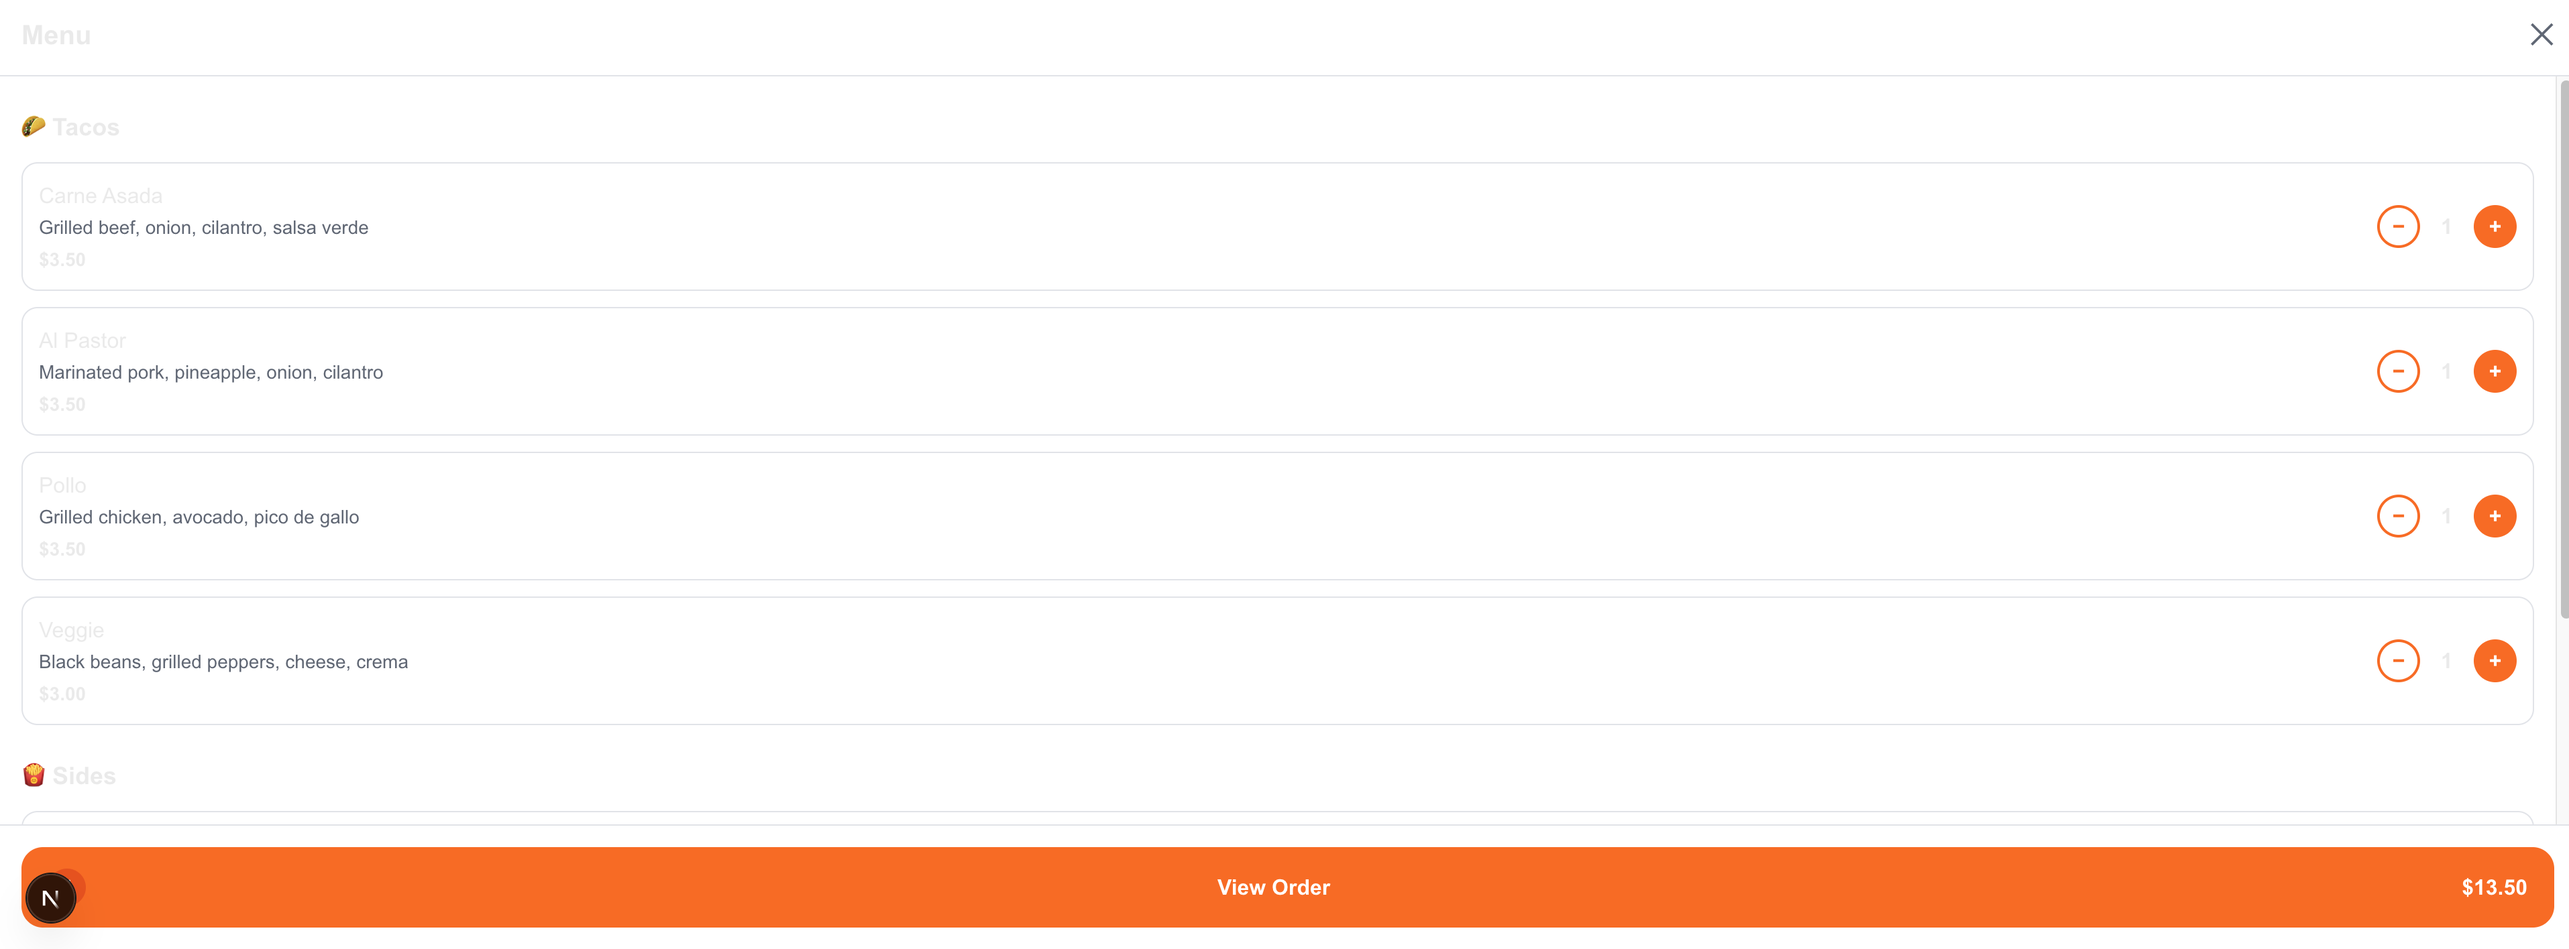
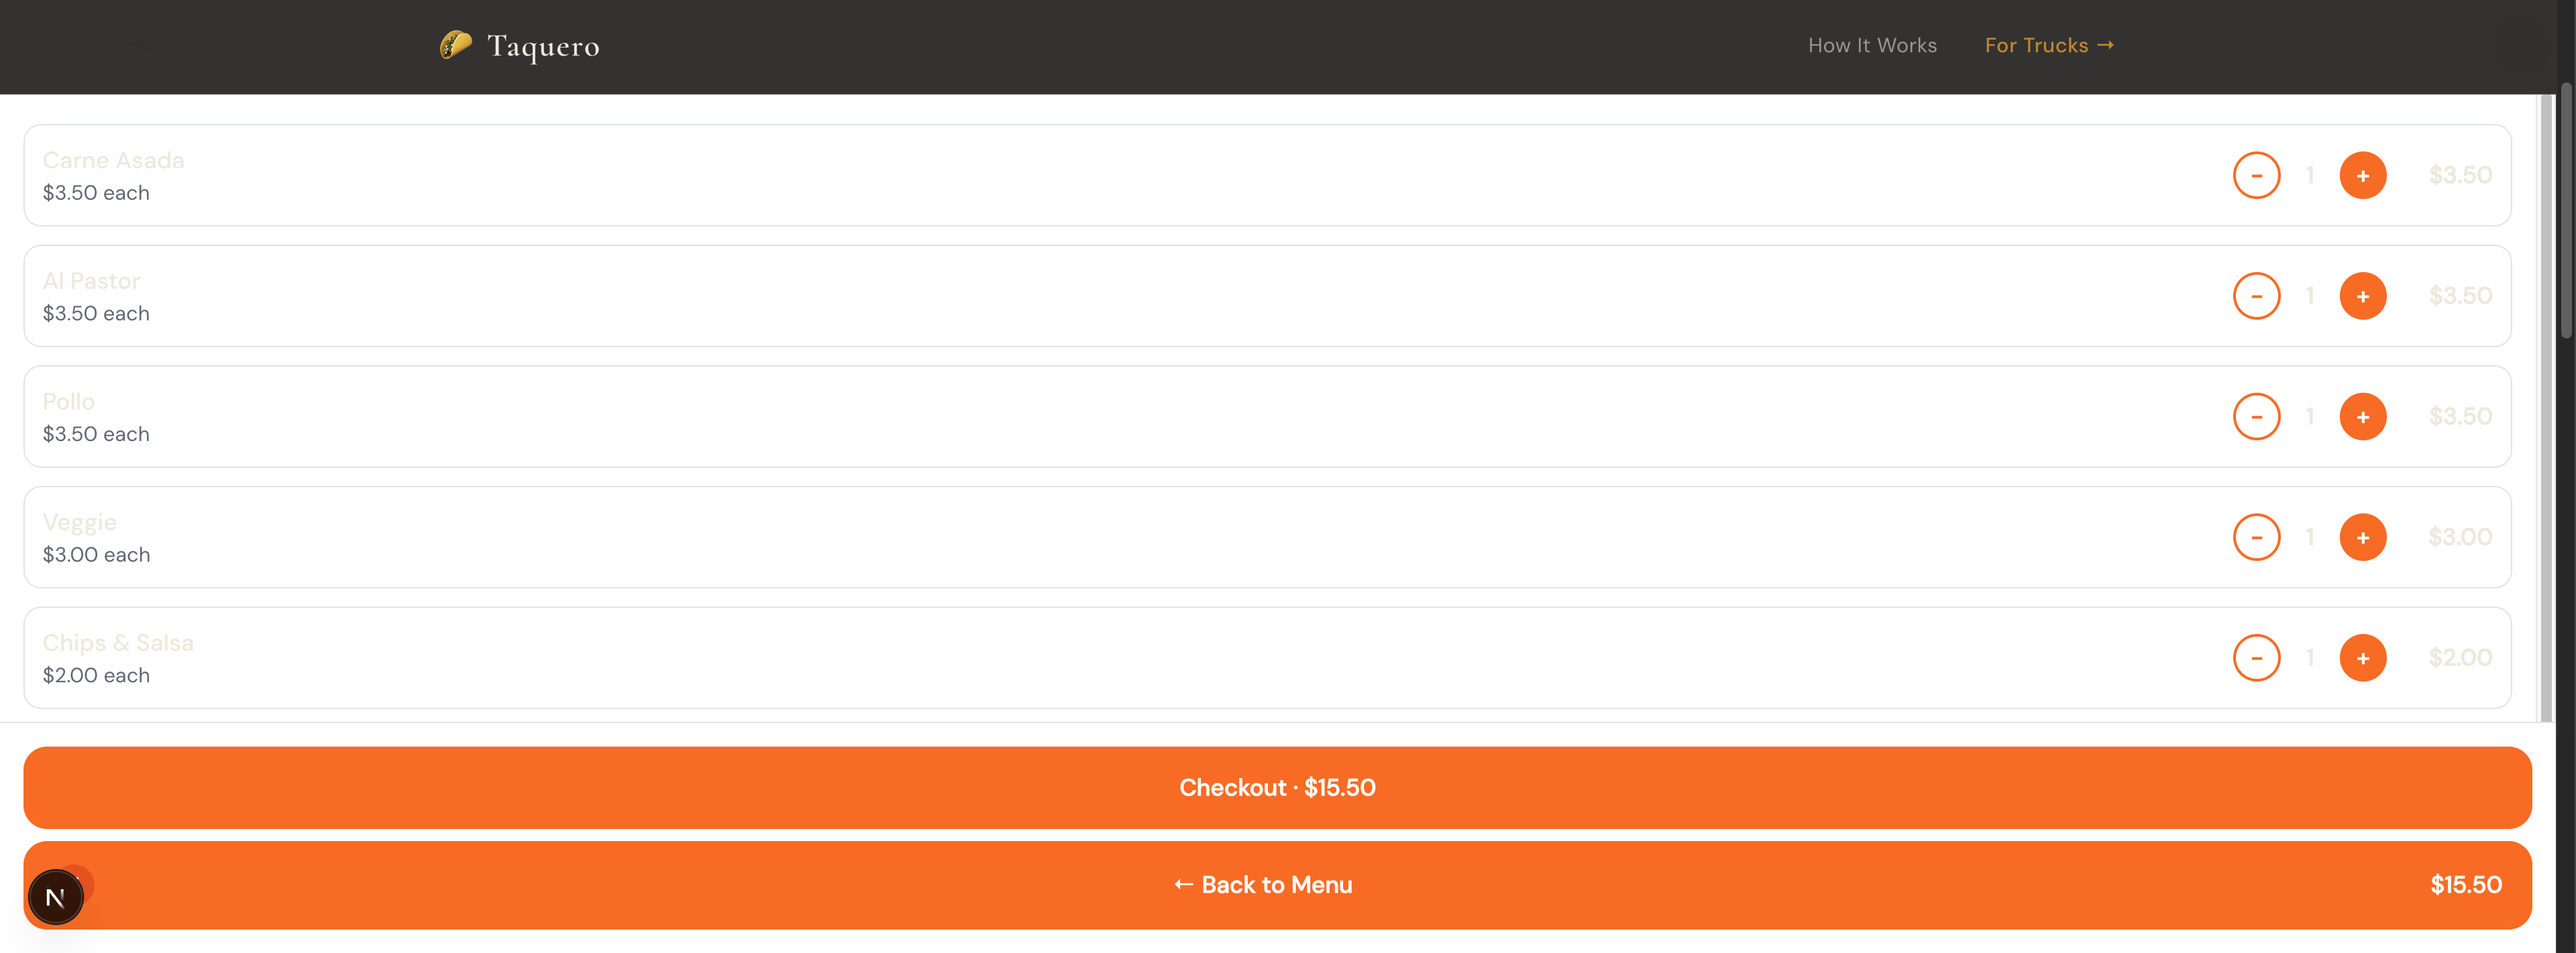
Updated Documentation 🔄

diff --git a/README.md b/README.md
@@ -1,18 +1,23 @@
 # 🌮 Taquero
-
 **Taquero** is a real-time GPS tracking and ordering platform for taco trucks. Customers can find nearby trucks on a live map, browse the menu, build a cart, and check out — all in one flow.
-
 Built for the Lynnwood, WA Highway 99 market.
 
 ---
 
 ## Screenshots
 
-### Live Map — Find the Truck
+### Landing Page
 ![Landing Page](docs/screenshots/Landing_Page.png)
 
-### Tap the Pin — Truck Info & Order Now
-![Pressed Taco](docs/screenshots/Pressed_Taco.png)
+### Live Map — Find the Truck
+Detects the user's location and auto-fits the map to frame both the customer and nearby trucks. Tap any pin to see the truck's distance and get directions.
+
+![Truck Info](docs/screenshots/Truck.png)
+
+### Get Directions
+Opens Apple Maps on iOS, Google Maps everywhere else.
+
+![Google Maps Directions](docs/screenshots/Google_Maps_Directions.png)
 
 ### Browse the Menu
 ![Menu](docs/screenshots/Menu.png)
@@ -20,11 +25,17 @@ Built for the Lynnwood, WA Highway 99 market.
 ### Add Items to Your Order
 ![Added Items](docs/screenshots/Added_Items.png)
 
-### Review Your Order
-![View Items](docs/screenshots/View_Items.png)
-
 ### Checkout via Square
-![Checkout](docs/screenshots/SquareSpace_CheckOut.png)
+![Square Checkout](docs/screenshots/Square_Pay_Checkout.png)
+
+### Order Confirmation
+![Order Confirmation](docs/screenshots/Redirect.png)
+
+### How It Works
+![How It Works](docs/screenshots/How_It_Works.png)
+
+### For Operators
+![Early Access](docs/screenshots/Early_Access.png)
 
 ---
 
@@ -35,18 +46,18 @@ Built for the Lynnwood, WA Highway 99 market.
 |---|---|
 | [Next.js 14](https://nextjs.org) | React framework, routing, SSR |
 | TypeScript | Type safety across the app |
-| [@vis.gl/react-google-maps](https://visgl.github.io/react-google-maps/) | Interactive map with custom markers and InfoWindows |
+| [@vis.gl/react-google-maps](https://visgl.github.io/react-google-maps/) | Interactive map with custom markers, InfoWindows, and fitBounds |
 
 ### Backend & Data
 | Technology | Purpose |
 |---|---|
 | [Supabase](https://supabase.com) | Postgres database + real-time subscriptions for live GPS updates |
-| Row Level Security (RLS) | Public read policy on `truck_locations` table |
+| Row Level Security (RLS) | Public read policy on `truck_locations` and `menu_items` tables |
 
 ### Payments
 | Technology | Purpose |
 |---|---|
-| [Square Web Payments SDK](https://developer.squareup.com) | Hosted checkout flow for order transactions |
+| [Square API](https://developer.squareup.com) | Server-side payment link creation via `paymentLinks.create()`, hosted checkout flow |
 
 ### IoT / Hardware (GPS Tracking)
 | Device | Purpose |
@@ -72,7 +83,8 @@ Built for the Lynnwood, WA Highway 99 market.
 
 1. **GPS Hardware** — A LILYGO T-SIM7600G-H R2 board on the truck reads GPS coordinates and POSTs them to Supabase every 30 seconds over the cellular network via a Hologram SIM.
 2. **Real-Time Updates** — The Next.js frontend subscribes to the `truck_locations` table via Supabase real-time, updating the map pin live without a page refresh.
-3. **Order Flow** — Customers tap the truck pin → browse the menu → add items to cart → checkout via Square's hosted payments page.
+3. **Smart Map** — On load, the app requests the user's location and auto-fits the map viewport to frame both the customer and all active trucks. Distance badges and directions are shown per truck.
+4. **Order Flow** — Customers tap the truck pin → browse the menu → add items to cart → checkout via Square's hosted payments page → land on a branded order confirmation screen.
 
 ---
 
@@ -92,6 +104,9 @@ Create a `.env.local` file at the project root:
 NEXT_PUBLIC_GOOGLE_MAPS_API_KEY=your_google_maps_key
 NEXT_PUBLIC_SUPABASE_URL=your_supabase_url
 NEXT_PUBLIC_SUPABASE_ANON_KEY=your_supabase_anon_key
+SQUARE_SANDBOX_ACCESS_TOKEN=your_square_sandbox_token
+SQUARE_SANDBOX_LOCATION_ID=your_square_location_id
+NEXT_PUBLIC_BASE_URL=http://localhost:3000
 ```
 
 ---
@@ -100,10 +115,25 @@ NEXT_PUBLIC_SUPABASE_ANON_KEY=your_supabase_anon_key
 
 ```
 src/
-├── app/                  # Next.js App Router pages
+├── app/
+│   ├── page.tsx                    # Landing page — hero, map, how it works, CTA
+│   ├── order-confirmation/
+│   │   └── page.tsx                # Post-payment confirmation screen
+│   └── api/
+│       └── checkout/
+│           └── route.ts            # Square payment link creation (server-side)
 ├── components/
-│   └── map/
-│       └── TruckMap.tsx  # Live map with Supabase real-time + Google Maps
+│   ├── map/
+│   │   └── TruckMap.tsx            # Live map — geolocation, fitBounds, markers
+│   └── menu/
+│       └── MenuModal.tsx           # Full-screen menu, cart, and checkout flow
+├── context/
+│   └── CartContext.tsx             # useReducer cart state — add, increment, decrement, clear
+├── hooks/
+│   ├── useTruckLocations.ts        # Supabase real-time truck GPS subscription
+│   └── useMenuItems.ts             # Fetches and groups menu items by category
+└── types/
+    └── database.ts                 # Shared TypeScript types
 ```
 
 ---
@@ -111,3 +141,5 @@ src/
 ## Deployment
 
 Deployed on [Vercel](https://vercel.com). Push to `main` to deploy.
+
+> **Note:** Swap `SQUARE_SANDBOX_ACCESS_TOKEN` for production credentials and set `SquareEnvironment.Production` in `src/app/api/checkout/route.ts` before going live.
